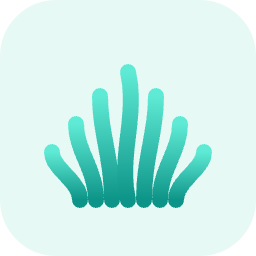
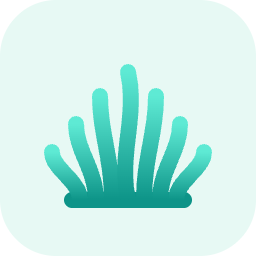
fix: seabed bar was invisible under the degenerate gradient — stroke it solid
A zero-height horizontal path has a degenerate objectBoundingBox, so the
vertical gradient painted nothing on the bar; the base stayed open. The
bar now strokes the gradient's literal base color outside the gradient
group, in reef.svg and ReefMark alike, and the favicon PNG is re-rendered
from the fixed mark.

Changed region(s): [[0.25, 0.75, 0.75, 0.8125]]

diff --git a/frontend/src/components/ReefMark.tsx b/frontend/src/components/ReefMark.tsx
@@ -10,13 +10,19 @@
 import { useId } from "react";
 
 /**
- * The seabed bar plus seven frond paths shared by {@link ReefMark} and
- * {@link FrondGlyph}, copied from `public/reef.svg`. The bar is first so
- * the fronds layer over it, fusing their rounded bases into one closed
- * base instead of reading as separate "toes" at small sizes.
+ * The seabed bar that fuses the fronds' rounded bases into one closed
+ * base instead of separate "toes". Kept OUT of any gradient-stroked
+ * group: the bar is a zero-height horizontal line, and objectBoundingBox
+ * gradients degenerate on a zero-height bbox (Chrome paints nothing), so
+ * it must be stroked with the gradient's literal base color instead.
+ */
+const SEABED_PATH = "M18 50h28";
+
+/**
+ * The seven frond paths shared by {@link ReefMark} and {@link FrondGlyph},
+ * copied from `public/reef.svg`.
  */
 const FROND_PATHS = [
-  "M18 50h28",
   "M20 50C20 45.2 13 42.2 13 38",
   "M24 50C24 42.4 19 37.7 19 31",
   "M28 50C28 39.6 25 33.1 25 24",
@@ -56,6 +62,13 @@ export function ReefMark({ size = 30, className }: ReefMarkProps) {
         </linearGradient>
       </defs>
       <rect width="64" height="64" rx="14" fill="var(--mark-tile)" />
+      <path
+        d={SEABED_PATH}
+        stroke="#0d9488"
+        strokeWidth={4}
+        strokeLinecap="round"
+        fill="none"
+      />
       <g stroke={`url(#${gradientId})`} strokeWidth={4} strokeLinecap="round" fill="none">
         {FROND_PATHS.map((d) => (
           <path key={d} d={d} />
@@ -80,6 +93,7 @@ export function FrondGlyph({ color, size = 20 }: FrondGlyphProps) {
   return (
     <svg viewBox="0 0 64 64" width={size} height={size} aria-hidden="true">
       <g stroke={color} strokeWidth={4} strokeLinecap="round" fill="none">
+        <path d={SEABED_PATH} />
         {FROND_PATHS.map((d) => (
           <path key={d} d={d} />
         ))}
